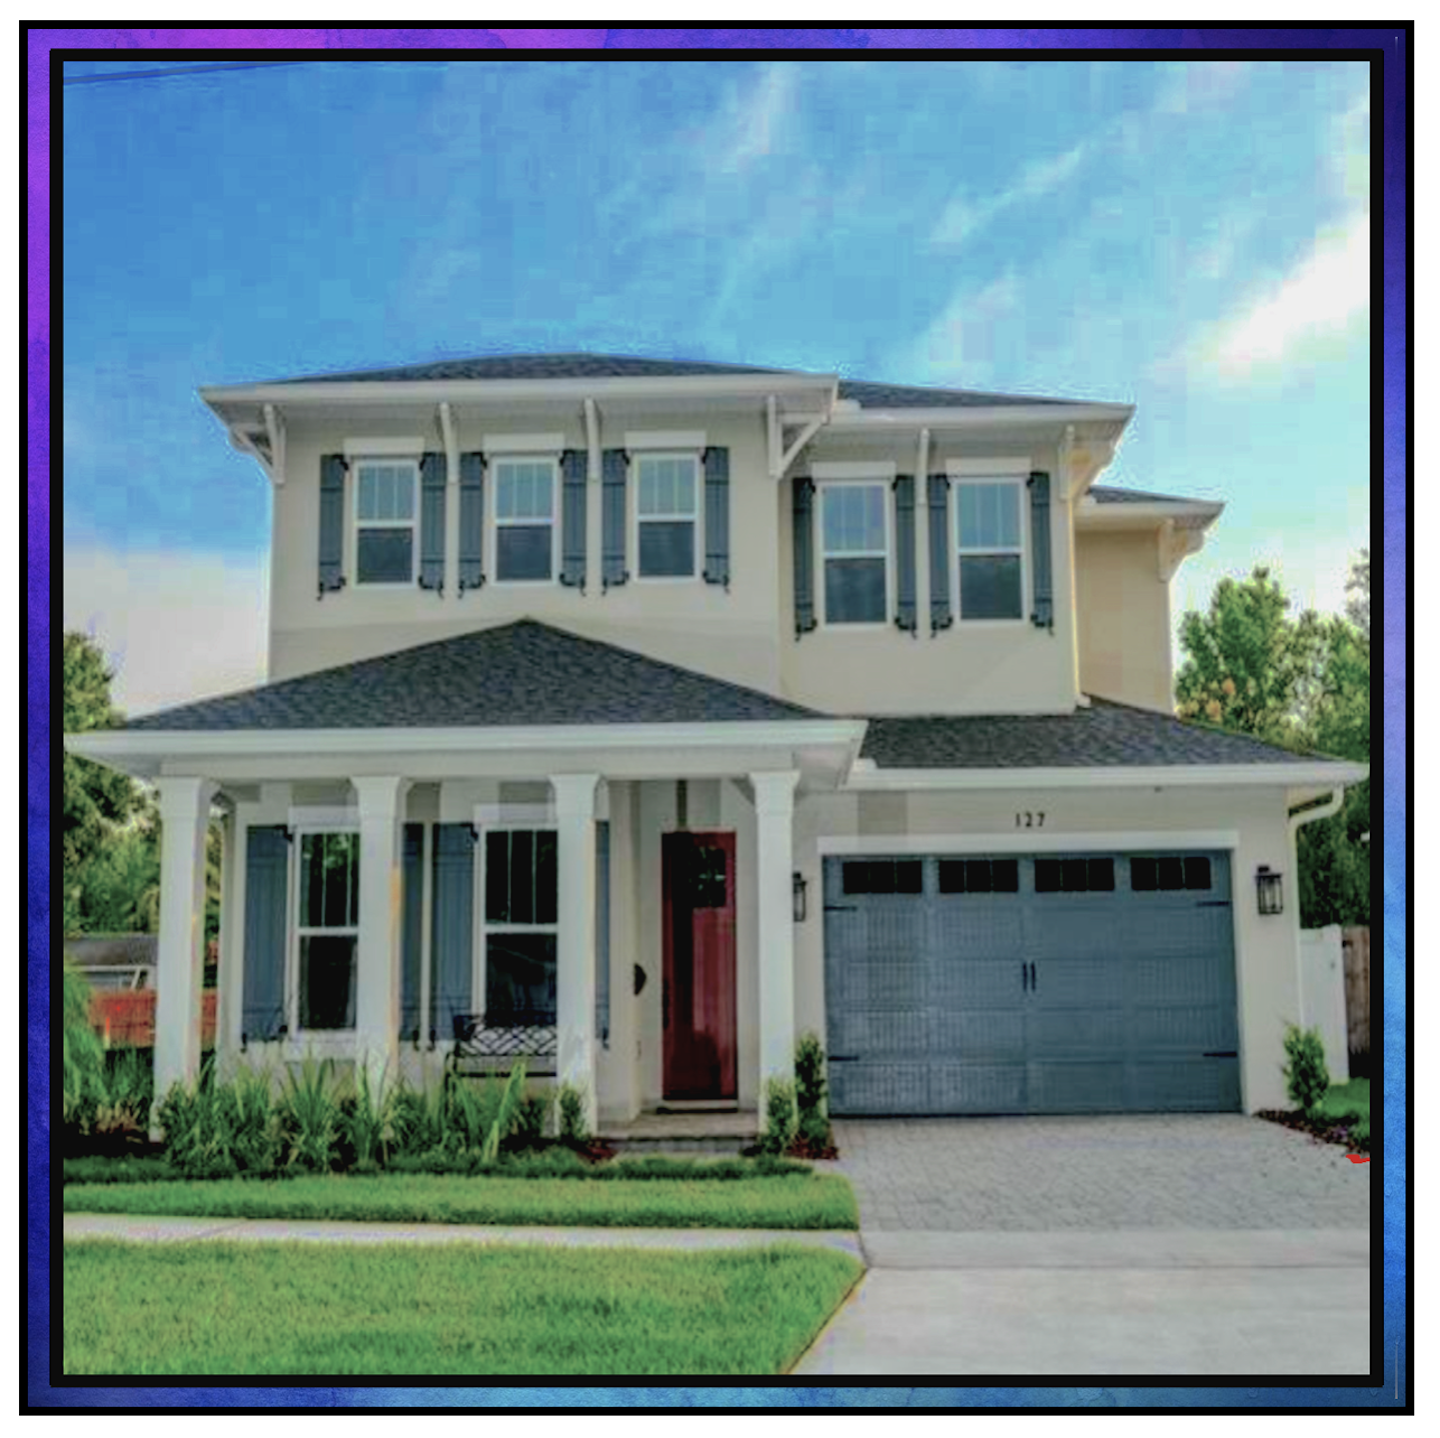
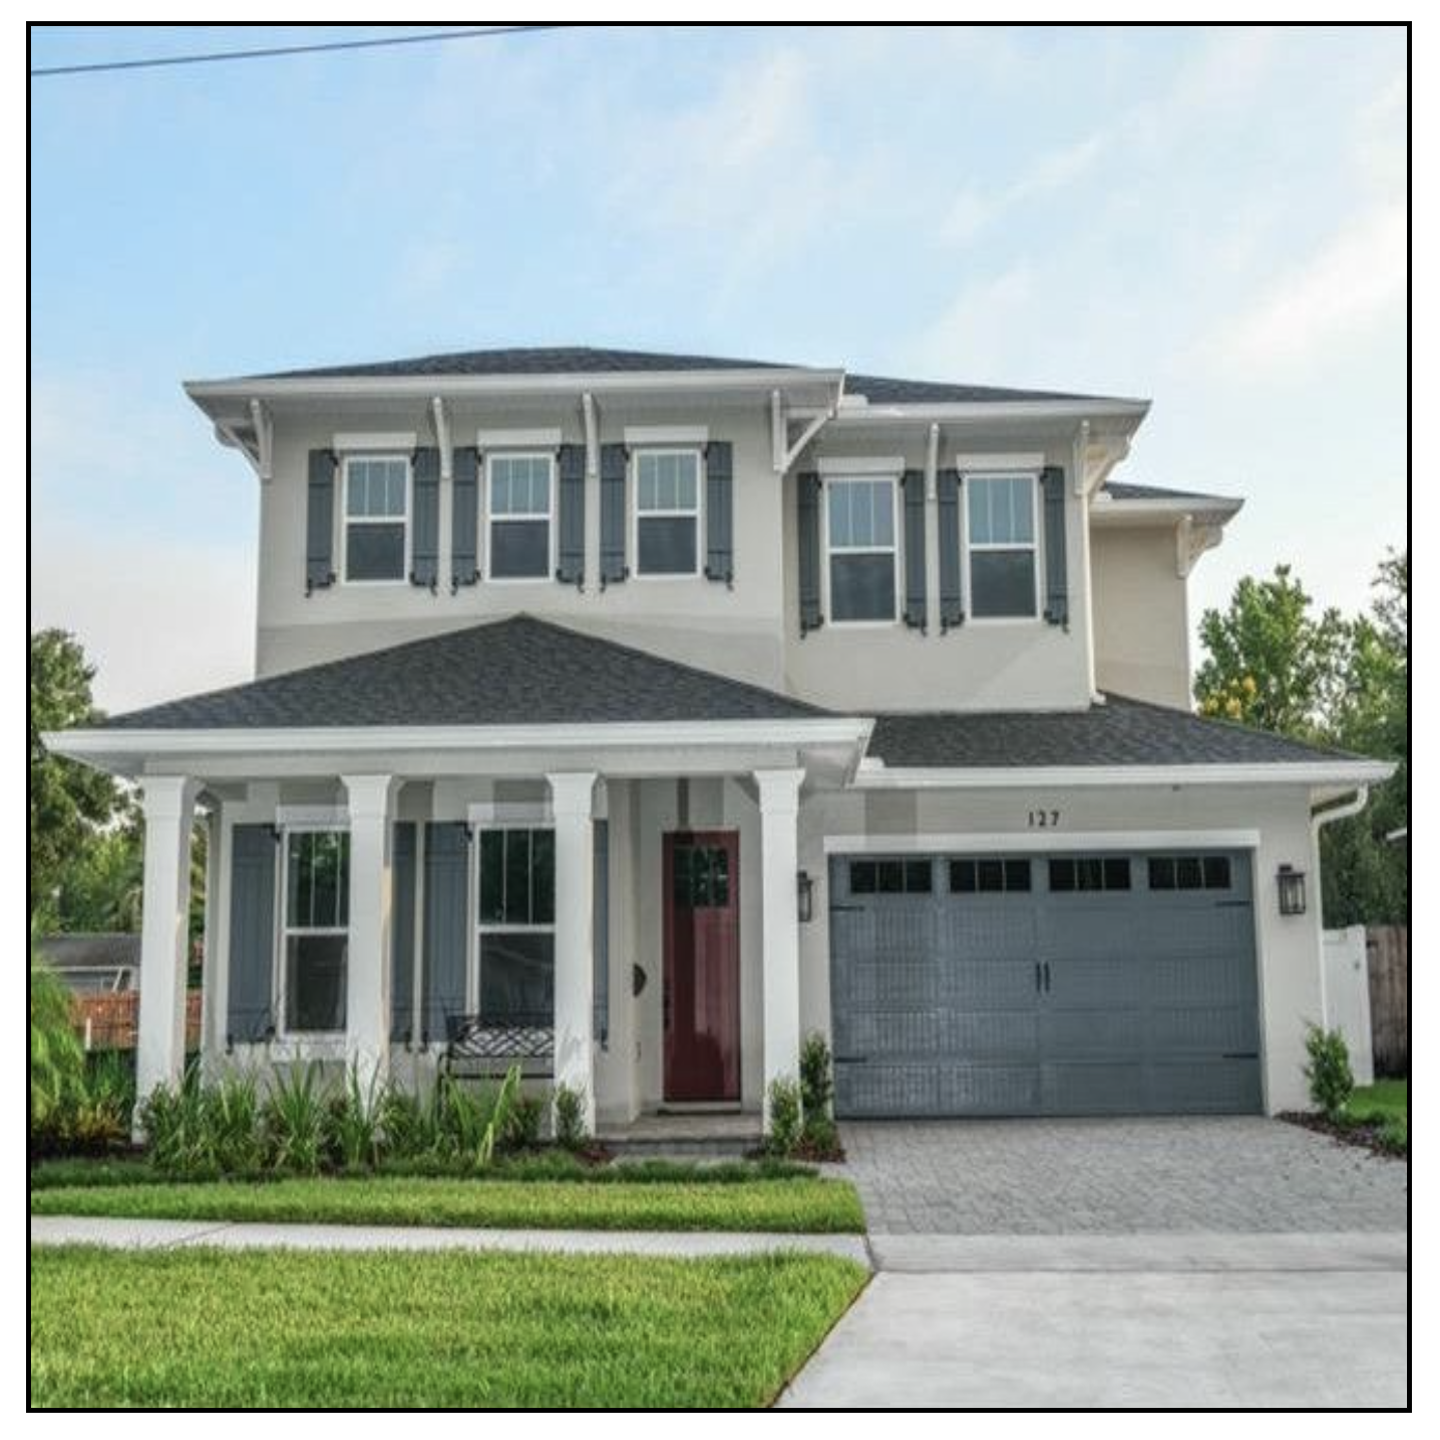
changed sold photos

diff --git a/current.html b/current.html
@@ -47,7 +47,7 @@
 
             <div class="contactLori">
                 <p id="lorim-contact">
-                    Click <a class="link" target="_blank" href="https://www.optimarealtors.com/agent/lori-mazzone/">Here</a> to see my Current Listings!<br>
+                    Click <a class="link" target="_blank" href="https://www.optimarealtors.com/agent/lori-mazzone/">Here</a> to see my Current Listings at Optima Real Estate!<br>
                     Click <a class="link" target="_blank" href="https://www.fortisenterprises.com/available-homes">Here</a> to see available Fortis Homes & Lots!
                    
                 </p>

diff --git a/sold.html b/sold.html
@@ -61,7 +61,7 @@
             <div class="property-card-odd">
                 <div class="image-box">
                     <div class="image-wrap">
-                        <img src="assets/millerSquare.png" alt="street view of 1453 Miller Avenue" />
+                        <img src="assets/millerSquare2.png" alt="street view of 1453 Miller Avenue" />
                     </div>
                 </div>
                 <div class="description-box">

diff --git a/sold.css b/sold.css
@@ -193,6 +193,10 @@ hr {
     width: 100%;
     max-width: 550px;
     min-width: 260px;
+    border: solid 2px black;
+    background: linear-gradient(to right, #8850e5 0%, #65d1e0 100%);
+    padding: 3px;
+  
 }
 
 .descript {
